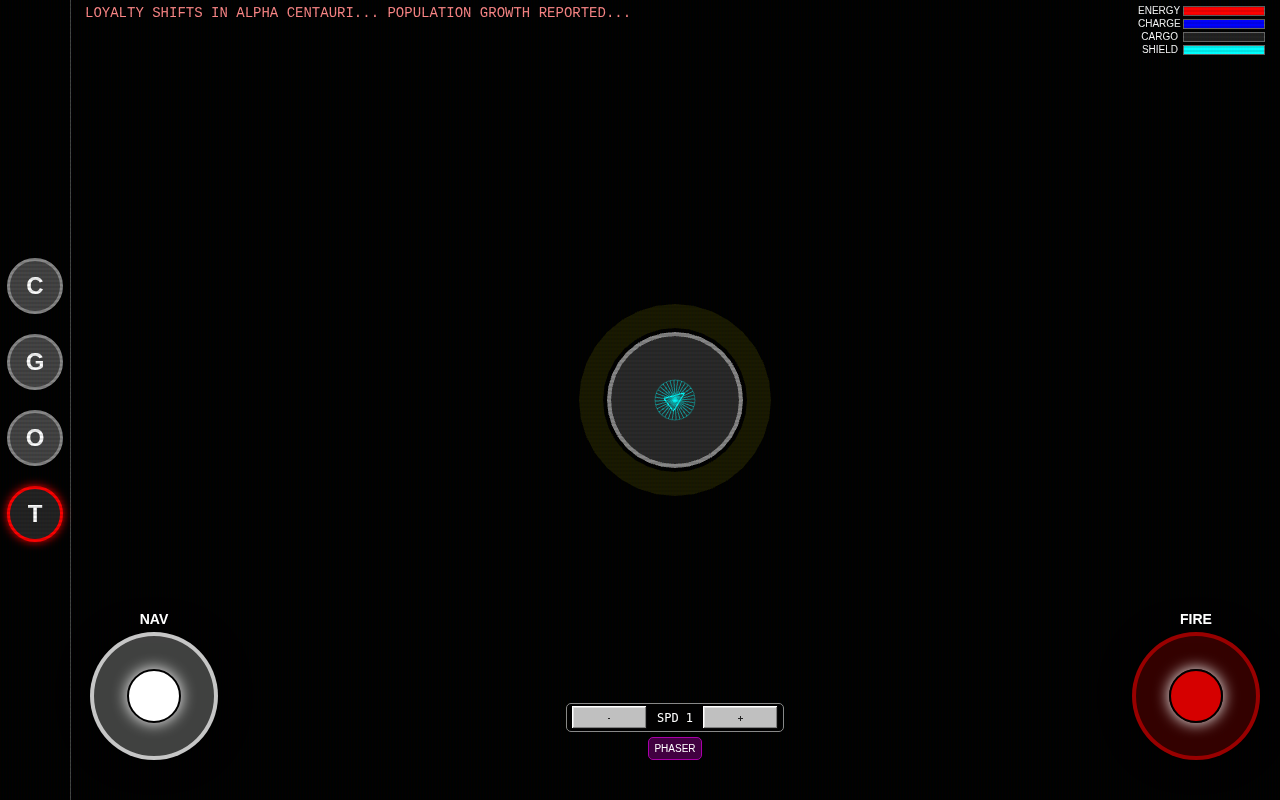
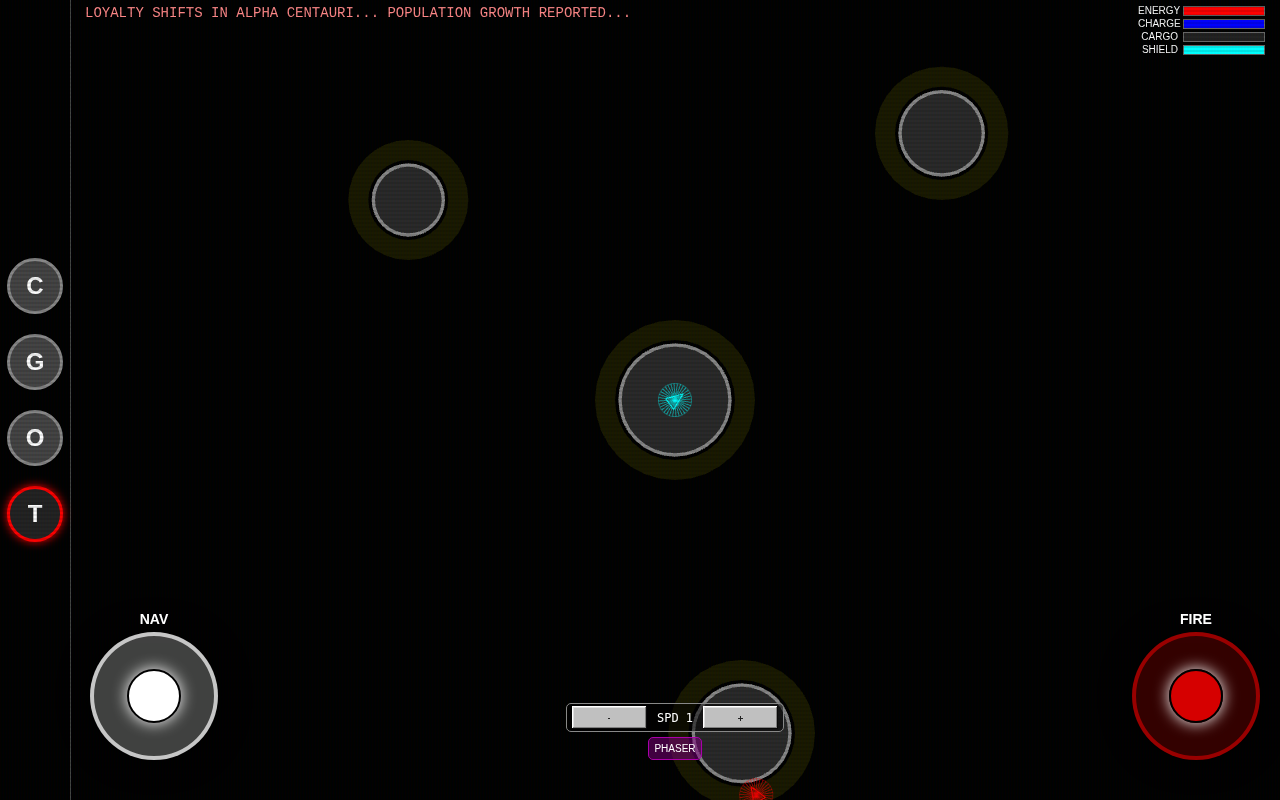
feat: rebirth of Warpath Classic with Three.js and 98.css
Implemented the core space conquest loop including inertial physics,
planetary loyalty/capture mechanics, population-based economy,
rival AI ship, and high-performance drone swarms using THREE.InstancedMesh.
Integrated a retro UI using 98.css and responsive mobile joysticks.
Calibrated camera bounds and planetary positions for cross-device visibility.

diff --git a/index.html b/index.html
@@ -193,8 +193,13 @@
         const scene = new THREE.Scene();
         const getSidebarW = () => window.innerWidth < 600 ? 50 : 70;
         const aspect = (window.innerWidth - getSidebarW()) / window.innerHeight;
-        const viewSize = 1000;
-        const camera = new THREE.OrthographicCamera(-viewSize*aspect/2, viewSize*aspect/2, viewSize/2, -viewSize/2, 0.1, 2000);
+        const viewSize = 1200;
+        function getCameraBounds(a) {
+            if (a > 1) return { l: -viewSize * a / 2, r: viewSize * a / 2, t: viewSize / 2, b: -viewSize / 2 };
+            else return { l: -viewSize / 2, r: viewSize / 2, t: (viewSize / a) / 2, b: -(viewSize / a) / 2 };
+        }
+        const bounds = getCameraBounds(aspect);
+        const camera = new THREE.OrthographicCamera(bounds.l, bounds.r, bounds.t, bounds.b, 0.1, 2000);
         camera.position.set(0, 0, 1000);
 
         const renderer = new THREE.WebGLRenderer({ antialias: true });
@@ -306,9 +311,9 @@
             return p;
         }
 
-        createPlanet(800, 600, 60, "Xylos");
-        createPlanet(-1000, -800, 50, "Ygor");
-        createPlanet(2000, -500, 70, "Zion");
+        createPlanet(400, 400, 60, "Xylos");
+        createPlanet(-400, 300, 50, "Ygor");
+        createPlanet(100, -500, 70, "Zion");
         createPlanet(0, 0, 80, "Home");
 
         // --- UI LOGIC ---
@@ -903,7 +908,8 @@
         window.addEventListener('resize', () => {
             const sidebarW = getSidebarW();
             const a = (window.innerWidth - sidebarW) / window.innerHeight;
-            camera.left = -viewSize*a/2; camera.right = viewSize*a/2;
+            const b = getCameraBounds(a);
+            camera.left = b.l; camera.right = b.r; camera.top = b.t; camera.bottom = b.b;
             camera.updateProjectionMatrix();
             renderer.setSize(window.innerWidth - sidebarW, window.innerHeight);
         });
